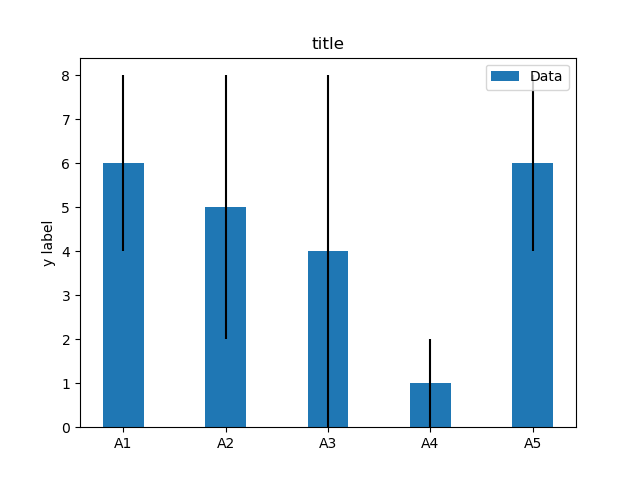
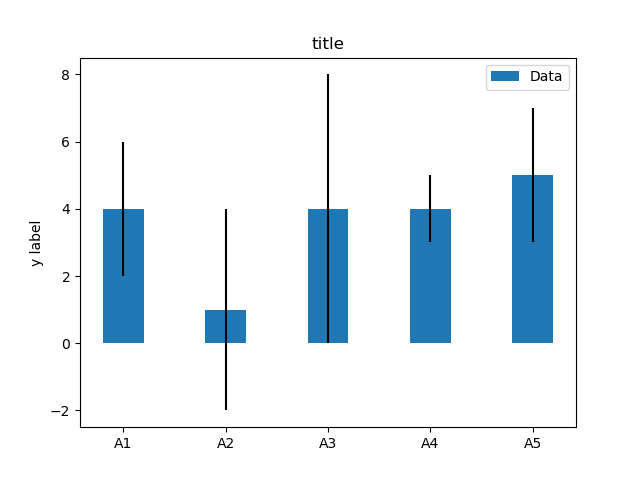
first commit

diff --git a/example.py b/example.py
@@ -2,7 +2,7 @@ import numpy as np
 import matplotlib.pyplot as plt
 
 labels = ['A1', 'A2', 'A3', 'A4', 'A5']
-m_means = [6,5,4,1,6]
+m_means = [4,1,4,4,5]
 m_std = [2, 3, 4, 1, 2]
 width = 0.40       # the width of the bars
 

diff --git a/README.md b/README.md
@@ -1,4 +1,4 @@
-# Matplotlib no 151 
+# Matplotlib no 152 
 
 python example
 
